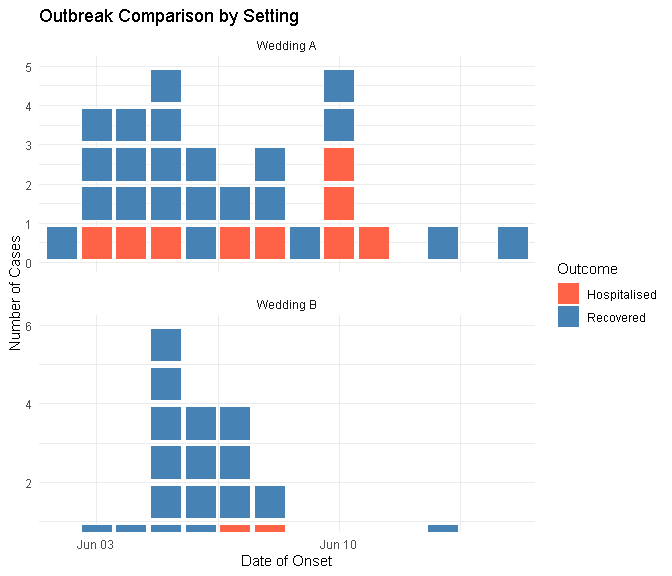
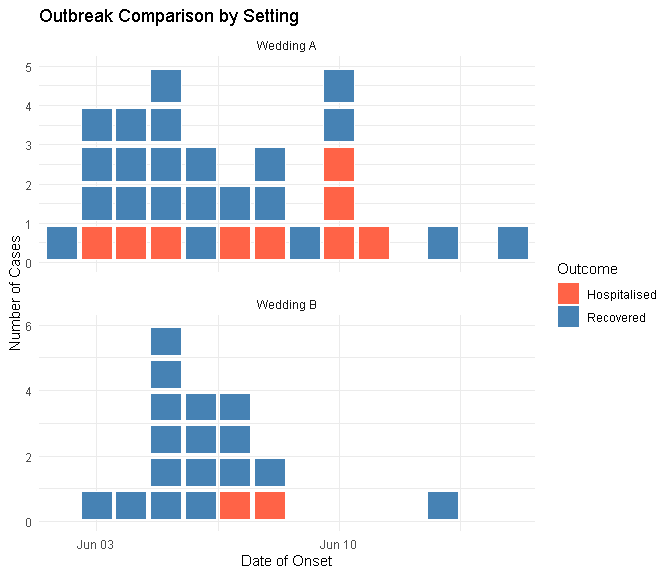
Fix faceted plots and remove warning in geom_epicurve
Improved y-axis handling to work correctly with faceted plots:

- Moved y=0 anchor from GeomEpicurve to StatEpicurve's compute_panel
- Anchor is added per panel, ensuring faceted plots with free_y scales work correctly
- GeomEpicurve filters out y=0 rows before drawing (data > 0)
- Added pmax(0, ...) to ymin calculation as additional protection
- Removed setup_data approach that was causing 'removed rows' warning

This fixes both reported issues:
1. Faceted example now shows complete blocks in all panels
2. No more 'Removed 1 row' warning message

Updated tests to account for y=0 anchor row in StatEpicurve output.
All 67 tests passing with no warnings.

Changed region(s): [[0.125, 0.5938, 0.4375, 0.9375], [0.625, 0.8438, 0.6875, 0.9375]]

diff --git a/README.md b/README.md
@@ -79,8 +79,6 @@ ggplot(cases, aes(x = onset_date)) +
     y = "Number of Cases"
   ) +
   theme_minimal()
-#> Warning: Removed 1 row containing missing values or values outside the scale range
-#> (`geom_epicurve()`).
 ```
 
 <img src="man/figures/README-basic-epicurve-1.png" alt="" width="100%" />
@@ -101,8 +99,6 @@ ggplot(cases, aes(x = onset_date, fill = age_group)) +
     fill = "Age Group"
   ) +
   theme_bw()
-#> Warning: Removed 1 row containing missing values or values outside the scale range
-#> (`geom_epicurve()`).
 ```
 
 <img src="man/figures/README-colored-epicurve-1.png" alt="" width="100%" />
@@ -127,8 +123,6 @@ ggplot(cases, aes(x = onset_date, fill = outcome)) +
   ) +
   theme_minimal() +
   theme(panel.spacing = unit(1, "lines"))
-#> Warning: Removed 1 row containing missing values or values outside the scale range
-#> (`geom_epicurve()`).
 ```
 
 <img src="man/figures/README-faceted-epicurve-1.png" alt="" width="100%" />
@@ -170,10 +164,6 @@ p2 <- ggplot(long_incubation, aes(x = onset_date)) +
   theme_minimal()
 
 p1 / p2
-#> Warning: Removed 1 row containing missing values or values outside the scale range
-#> (`geom_epicurve()`).
-#> Removed 1 row containing missing values or values outside the scale range
-#> (`geom_epicurve()`).
 ```
 
 <img src="man/figures/README-incubation-comparison-1.png" alt="" width="100%" />
@@ -198,8 +188,6 @@ ggplot(cases, aes(x = onset_date, fill = sex)) +
     y = "Number of Cases"
   ) +
   theme_dark()
-#> Warning: Removed 1 row containing missing values or values outside the scale range
-#> (`geom_epicurve()`).
 ```
 
 <img src="man/figures/README-advanced-styling-1.png" alt="" width="100%" />
